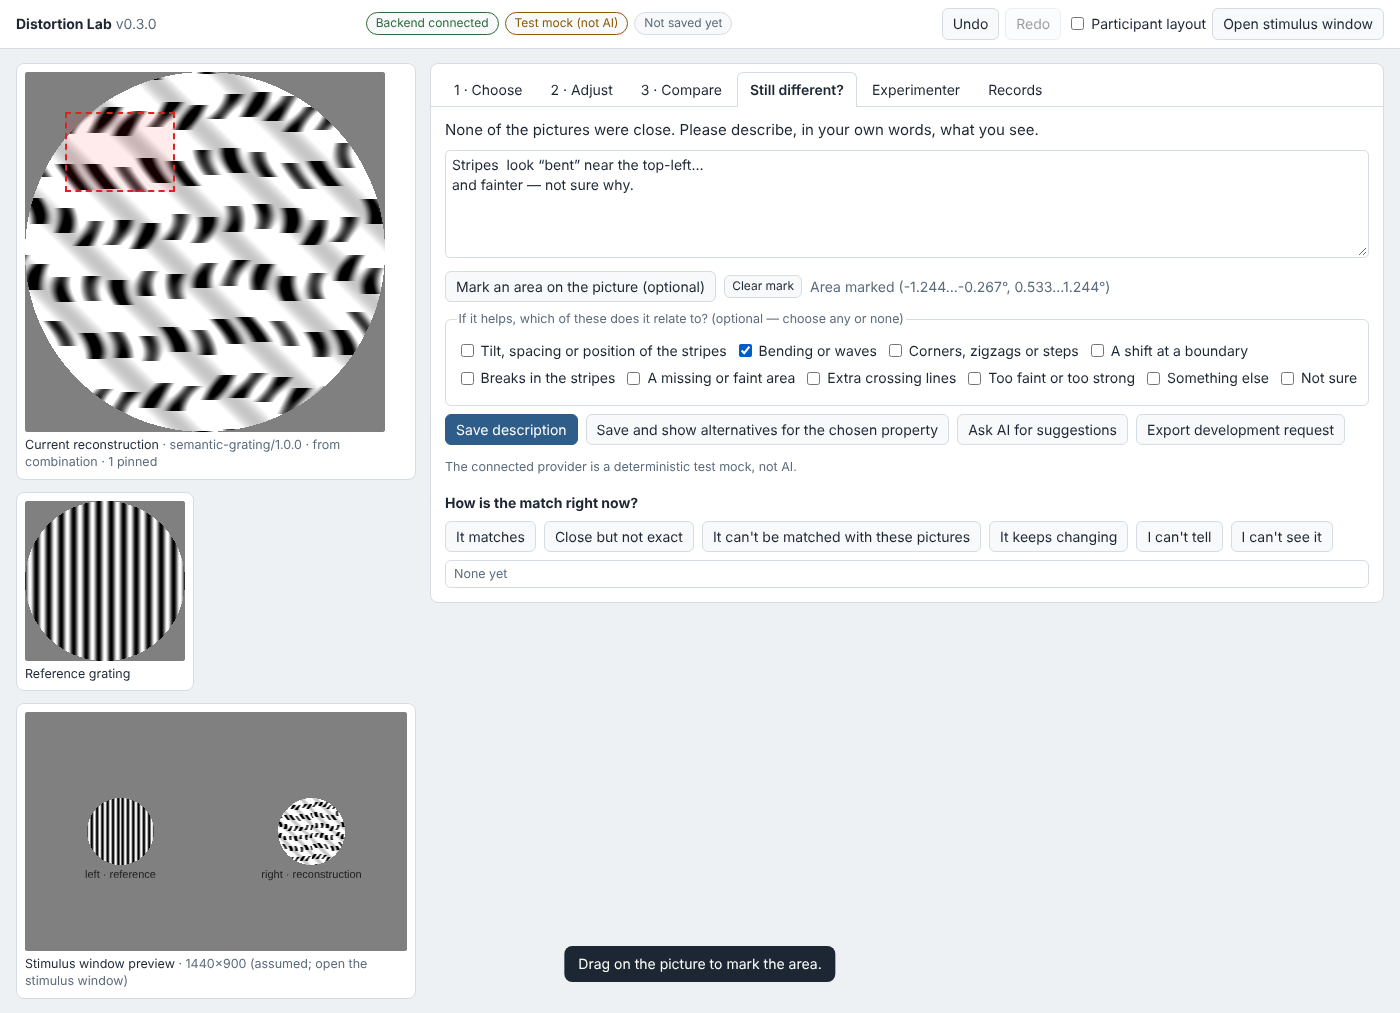
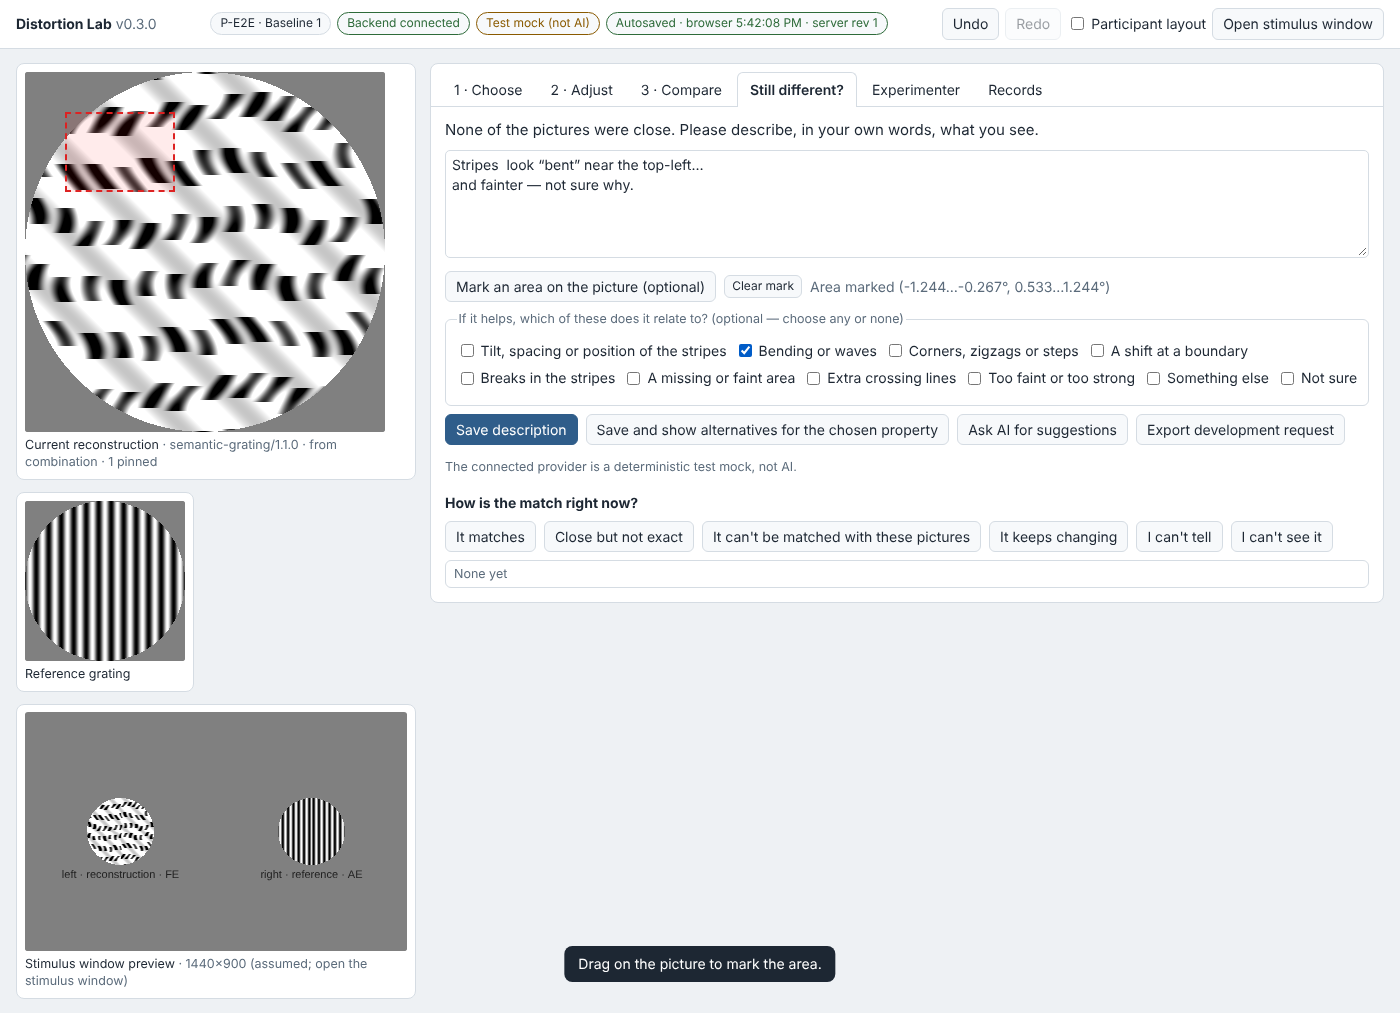
Start screen: participant ID and session first, with amblyopic eye
Required before anything else (or an explicit practice mode); offers to
continue an unfinished session; sets eye routing from the amblyopic eye.
Header shows the current participant and session.

Claude-Session: https://claude.ai/code/session_01EffKJB2Sk7JoAKuDAxyw6q

diff --git a/web/js/app.js b/web/js/app.js
@@ -631,10 +631,72 @@
     }).catch(function (e) { toast('Could not open file: ' + e.message, 6000); });
   }
   function newSession() {
-    if (!confirm('Start a new session? The current one stays autosaved. Optics, routing and calibration are kept.')) return;
-    saveNow();
-    replaceSession(C.newSession({ reference: S.reference, layout: S.layout }), 'New session started.');
+    openStart({ cancelable: true, participant: S.participant, base: S });
   }
+
+  // ------------------------------------------------------------------ start screen (participant ID + session first)
+  var startCtx = null;
+  function sessionLabel(s) {
+    if (!s.participant && !s.condition) return 'Practice (no ID)';
+    return (s.participant || 'no ID') + (s.condition ? ' · ' + s.condition : '');
+  }
+  function fillSessionSuggestions() {
+    var seen = {}, dl = $('sessionSuggestions');
+    var add = function (v) { if (v && !seen[v]) { seen[v] = true; dl.append(el('option', { value: v })); } };
+    dl.replaceChildren();
+    if (S && S.condition) add(S.condition);
+    if (backend) api('sessions').then(function (j) { j.sessions.forEach(function (x) { add(x.condition); }); }).catch(function () {});
+  }
+  /** opts: {saved: unfinished session to offer, cancelable, participant, base: session whose optics/reference carry over} */
+  function openStart(opts) {
+    startCtx = opts;
+    var d = $('startDialog');
+    $('startResumeBox').hidden = !opts.saved;
+    if (opts.saved) $('startResumeText').textContent = 'Unfinished session: ' + sessionLabel(opts.saved) + ', last change ' +
+      new Date(opts.saved.updatedAt).toLocaleString() + ' (' + opts.saved.actions.length + ' actions).';
+    $('startParticipant').value = opts.participant || '';
+    $('startSession').value = '';
+    var L = (opts.base || S).layout, eye = L.leftEye === 'AE' ? 'left' : (L.rightEye === 'AE' ? 'right' : 'unset');
+    document.querySelectorAll('input[name=startEye]').forEach(function (r) { r.checked = r.value === eye; });
+    $('startError').textContent = '';
+    $('startCancel').hidden = !opts.cancelable;
+    fillSessionSuggestions();
+    if (!d.open) d.showModal();
+    setTimeout(function () { (opts.participant ? $('startSession') : $('startParticipant')).focus(); }, 0);
+  }
+  function closeStart() { $('startDialog').close(); startCtx = null; }
+  function beginSession(participant, condition, eye) {
+    var base = (startCtx && startCtx.base) || S;
+    var layout = C.util.clone(base.layout);
+    if (eye === 'left' || eye === 'right') { layout.referenceSide = eye; layout.linked = true; C.eyeRouting(layout); }
+    if (startCtx && startCtx.saved) { try { localStorage.setItem(LS_PREV, JSON.stringify(startCtx.saved)); } catch (e) { /* ignore */ } }
+    var prev = S && !ui.pendingResume ? S.sessionId : (startCtx && startCtx.saved ? startCtx.saved.sessionId : null);
+    if (S && !ui.pendingResume) saveNow();
+    var next = C.newSession({ reference: base.reference, layout: layout, participant: participant, condition: condition });
+    C.log(next, 'session-started', { amblyopicEye: eye, previousSession: prev });
+    ui.pendingResume = false;
+    closeStart();
+    replaceSession(next, participant ? 'Session started: ' + sessionLabel(next) : 'Practice session started (no participant ID).');
+  }
+  $('startForm').addEventListener('submit', function (e) {
+    e.preventDefault();
+    var pid = $('startParticipant').value.trim(), ses = $('startSession').value.trim();
+    var eye = (document.querySelector('input[name=startEye]:checked') || {}).value || 'unset';
+    if (!pid) { $('startError').textContent = 'Enter a participant ID (or use "Practice without an ID").'; $('startParticipant').focus(); return; }
+    if (!ses) { $('startError').textContent = 'Enter a session name, e.g. "Baseline 1".'; $('startSession').focus(); return; }
+    beginSession(pid, ses, eye);
+  });
+  $('startPractice').addEventListener('click', function () {
+    beginSession('', '', (document.querySelector('input[name=startEye]:checked') || {}).value || 'unset');
+  });
+  $('startResume').addEventListener('click', function () {
+    var saved = startCtx.saved;
+    ui.pendingResume = false; closeStart();
+    S = saved; C.log(S, 'session-resumed', {}); ui.structureKey = null; ui.galleryKey = null; $('refControls').replaceChildren();
+    toast('Continuing ' + sessionLabel(S) + '.'); changed();
+  });
+  $('startCancel').addEventListener('click', closeStart);
+  $('startDialog').addEventListener('cancel', function (e) { if (!startCtx || !startCtx.cancelable) e.preventDefault(); });
   function listSessions() {
     if (!backend) { $('sessionList').textContent = 'Backend not running: only this browser autosave is available.'; return; }
     api('sessions').then(function (j) {
@@ -708,6 +770,7 @@
   }
   function refresh() {
     if (!S) return;
+    $('sessionPill').textContent = ui.pendingResume ? 'No session' : sessionLabel(S);
     $('undo').disabled = !S.undo.length; $('redo').disabled = !S.redo.length;
     $('undo').title = S.undo.length ? 'Undo: ' + S.undo[S.undo.length - 1].label : 'Nothing to undo';
     $('redo').title = S.redo.length ? 'Redo: ' + S.redo[S.redo.length - 1].label : 'Nothing to redo';
@@ -858,17 +921,10 @@
     var saved = null;
     try { var raw = localStorage.getItem(LS_KEY); if (raw) saved = C.validateSession(JSON.parse(raw)); } catch (e) { saved = null; }
     S = C.newSession(saved ? { reference: saved.reference, layout: saved.layout } : {});
-    if (saved && (saved.actions.length > 1 || saved.descriptions.length || saved.accepted.length)) {
-      ui.pendingResume = true;
-      $('resumeBanner').hidden = false;
-      $('resumeText').textContent = 'An unfinished session was found (' + (saved.participant || 'no label') + (saved.condition ? ' · ' + saved.condition : '') +
-        ', last change ' + new Date(saved.updatedAt).toLocaleString() + ', ' + saved.actions.length + ' actions).';
-      $('resumeYes').onclick = function () { ui.pendingResume = false; $('resumeBanner').hidden = true; S = saved; C.log(S, 'session-resumed', {}); ui.structureKey = null; ui.galleryKey = null; changed(); };
-      $('resumeNo').onclick = function () {
-        try { localStorage.setItem(LS_PREV, JSON.stringify(saved)); } catch (e) { /* ignore */ }
-        ui.pendingResume = false; $('resumeBanner').hidden = true; C.log(S, 'session-created-after-declining-resume', { previous: saved.sessionId }); changed();
-      };
-    }
+    // The start screen comes first: participant ID and session (or continue an unfinished session).
+    ui.pendingResume = true;
+    var unfinished = saved && (saved.actions.length > 1 || saved.descriptions.length || saved.accepted.length) ? saved : null;
+    openStart({ saved: unfinished, cancelable: false, participant: unfinished ? unfinished.participant : '', base: saved || S });
     refresh(); broadcast();
     fetch('api/status').then(function (r) { return r.json(); }).then(function (j) {
       backend = !!j.ok; aiStatus = j.ai;

diff --git a/web/index.html b/web/index.html
@@ -10,6 +10,7 @@
 <header class="topbar">
   <div class="brand"><strong>Distortion Lab</strong> <span id="version" class="muted"></span></div>
   <div class="pills">
+    <span id="sessionPill" class="pill" title="Participant and session">No session</span>
     <span id="backendStatus" class="pill" title="Backend connection">Backend…</span>
     <span id="aiStatus" class="pill" title="Optional AI bridge">AI…</span>
     <span id="saveStatus" class="pill muted" title="Autosave status">Not saved yet</span>
@@ -22,11 +23,35 @@
   </div>
 </header>
 
-<div id="resumeBanner" class="banner" hidden>
-  <span id="resumeText"></span>
-  <button id="resumeYes" class="primary">Resume</button>
-  <button id="resumeNo">Start a new session</button>
-</div>
+<dialog id="startDialog" class="start-dialog" aria-labelledby="startTitle">
+  <form id="startForm" novalidate>
+    <h2 id="startTitle">Start a session</h2>
+    <div id="startResumeBox" class="resume-box" hidden>
+      <p id="startResumeText"></p>
+      <button type="button" id="startResume" class="primary">Continue this session</button>
+      <p class="note">Or start a new one below. The unfinished session stays saved.</p>
+    </div>
+    <label for="startParticipant">Participant ID</label>
+    <input id="startParticipant" maxlength="120" autocomplete="off" placeholder="e.g. P-07">
+    <p class="note">Use a pseudonymous code, not a name.</p>
+    <label for="startSession">Session</label>
+    <input id="startSession" maxlength="120" autocomplete="off" list="sessionSuggestions" placeholder="e.g. Baseline 1">
+    <datalist id="sessionSuggestions"></datalist>
+    <fieldset>
+      <legend>Amblyopic eye</legend>
+      <label class="toggle"><input type="radio" name="startEye" value="left"> Left</label>
+      <label class="toggle"><input type="radio" name="startEye" value="right"> Right</label>
+      <label class="toggle"><input type="radio" name="startEye" value="unset" checked> Set later</label>
+    </fieldset>
+    <p class="note">The reference grating is shown on the amblyopic eye's side of the stereoscope and the reconstruction on the fellow eye's side. Optics and calibration carry over from the last session.</p>
+    <p id="startError" class="start-error" role="alert"></p>
+    <div class="row">
+      <button type="submit" id="startGo" class="primary">Start</button>
+      <button type="button" id="startPractice">Practice without an ID</button>
+      <button type="button" id="startCancel" hidden>Cancel</button>
+    </div>
+  </form>
+</dialog>
 <div id="browserOnly" class="banner warn" hidden>
   <strong>Browser-only mode.</strong> The Python backend is not reachable, so this page autosaves only to this browser's local storage.
   Not available here: server-side session files and SQLite index, Python-rendered export bundles, the AI bridge, and external dial control.

diff --git a/tests/e2e.js b/tests/e2e.js
@@ -48,6 +48,25 @@ function post(port, p, body) {
   await page.goto(URL);
   await page.waitForFunction(() => document.getElementById('backendStatus').textContent === 'Backend connected');
 
+  await step('start screen comes first and requires participant ID and session', async () => {
+    assert(await page.isVisible('#startDialog'), 'start dialog open');
+    assert(!(await page.isVisible('#startCancel')), 'cannot be skipped');
+    await page.click('#startGo');
+    assert((await page.textContent('#startError')).includes('participant ID'));
+    await page.fill('#startParticipant', 'P-E2E');
+    await page.click('#startGo');
+    assert((await page.textContent('#startError')).includes('session'));
+    await page.fill('#startSession', 'Baseline 1');
+    await page.check('input[name=startEye][value=right]');
+    await shot('00-start');
+    await page.click('#startGo');
+    assert(!(await page.isVisible('#startDialog')));
+    const s = await sess();
+    assert(s.participant === 'P-E2E' && s.condition === 'Baseline 1', J([s.participant, s.condition]));
+    assert(s.layout.rightEye === 'AE' && s.layout.leftEye === 'FE' && s.layout.referenceSide === 'right', J(s.layout));
+    assert((await page.textContent('#sessionPill')) === 'P-E2E · Baseline 1');
+  });
+
   await step('page loads, backend connected, mock AI labelled as not AI', async () => {
     assert((await page.textContent('#aiStatus')).includes('not AI'));
     await shot('01-gallery');
@@ -262,9 +281,10 @@ function post(port, p, body) {
     assert(fs.existsSync(path.join(data, 'sessions', s.sessionId + '.json')));
     assert(fs.existsSync(path.join(data, 'distortion-lab.sqlite')));
     await page.reload();
-    await page.waitForSelector('#resumeBanner:not([hidden])');
+    await page.waitForSelector('#startResumeBox:not([hidden])');
+    assert((await page.textContent('#startResumeText')).includes('P-E2E'));
     await shot('07-resume');
-    await page.click('#resumeYes');
+    await page.click('#startResume');
     const r = await sess();
     assert(J(r.work) === J(s.work) && r.undo.length === s.undo.length && r.descriptions.length === s.descriptions.length, 'restored');
     await page.click('#undo');
@@ -308,6 +328,8 @@ function post(port, p, body) {
     const p2 = await ctx.newPage();
     p2.on('pageerror', (e) => errors.push('file:// ' + e.message));
     await p2.goto('file://' + path.join(ROOT, 'web', 'index.html'));
+    await p2.waitForSelector('#startDialog[open]');
+    await p2.click('#startPractice');
     await p2.waitForSelector('#browserOnly:not([hidden])');
     assert((await p2.textContent('#browserOnly')).includes('AI bridge'));
     await p2.click('[data-id="zigzag:mild"]');

diff --git a/web/css/app.css b/web/css/app.css
@@ -116,3 +116,15 @@ legend { font-size: 12.5px; color: var(--muted); }
 
 body.participant .researcher { display: none !important; }
 body.nolabels .tile .cap.lbl { display: none; }
+
+.start-dialog { border: 1px solid var(--line); border-radius: 10px; padding: 18px 20px; width: min(460px, calc(100vw - 32px)); background: var(--panel); color: var(--ink); }
+.start-dialog::backdrop { background: rgba(20, 26, 32, .55); }
+.start-dialog h2 { margin: 0 0 12px; font-size: 18px; }
+.start-dialog form { display: flex; flex-direction: column; gap: 6px; }
+.start-dialog input:not([type=radio]) { width: 100%; font-size: 15px; padding: 6px 8px; }
+.start-dialog label:not(.toggle) { font-weight: 600; margin-top: 6px; }
+.start-dialog fieldset { display: flex; gap: 14px; flex-wrap: wrap; }
+.start-dialog .note { margin: 0; }
+.resume-box { border: 1px solid var(--line); border-radius: 8px; padding: 10px; background: var(--active); margin-bottom: 8px; }
+.resume-box p { margin: 0 0 8px; }
+.start-error { color: var(--bad); margin: 0; min-height: 1.2em; }

diff --git a/README.md b/README.md
@@ -46,6 +46,10 @@ dials. In this mode, autosave goes only to the browser's local storage.
 
 ## The matching workflow
 
+0. **Start.** The start screen asks for the **participant ID** (a pseudonymous code), the **session** name and the
+   amblyopic eye, which sets the routing: reference on the amblyopic eye's side. It also offers to continue an
+   unfinished session. *Practice without an ID* is available for demonstrations.
+
 1. **Choose.** A gallery of thumbnails rendered from the current reference grating: unchanged reference, tilted, wavy,
    zigzag, stepped, offset, broken, crossing lines, round gap, missing band and branching gap, each mild and strong, plus
    combinations. Participants pick the closest one. **More than one of these** lets them pick two features and see

diff --git a/docs/TESTING.md b/docs/TESTING.md
@@ -40,7 +40,7 @@ Environment: Linux, Python 3.13.18 and Python 3.9.25 (backend suite run under bo
 | `tools/build_data.py --check` (generated browser data matches `shared/`) | up to date |
 | Python `unittest` (backend, model, AI bridge incl. Claude Code provider via a stand-in CLI, startup/port handling, renderer migration, presentation boundary, parity): 25 tests | **OK** under 3.13 and 3.9 |
 | Node core tests: 26 tests | **26 pass, 0 fail** |
-| Browser end-to-end (Playwright/Chromium against the real backend): 18 steps | **18/18 pass** |
+| Browser end-to-end (Playwright/Chromium against the real backend): 19 steps | **19/19 pass** |
 
 ### What is covered
 
